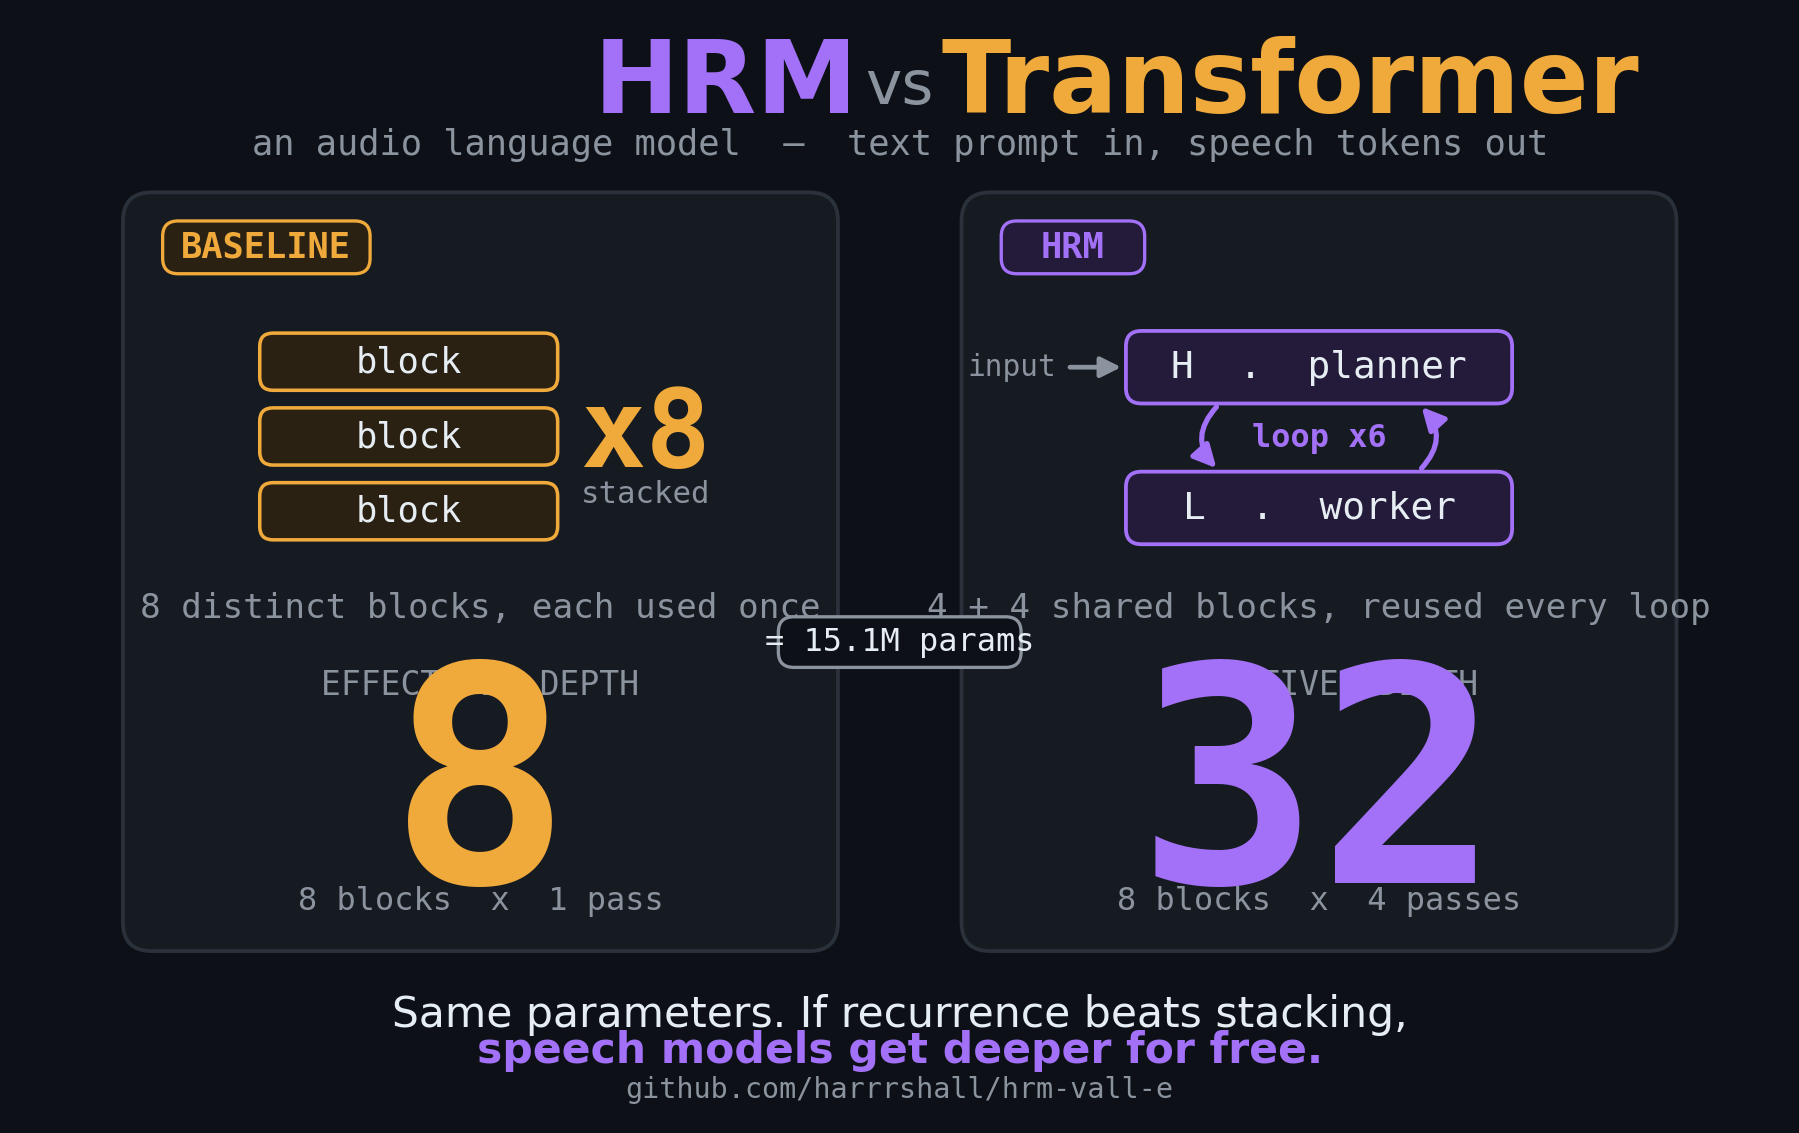
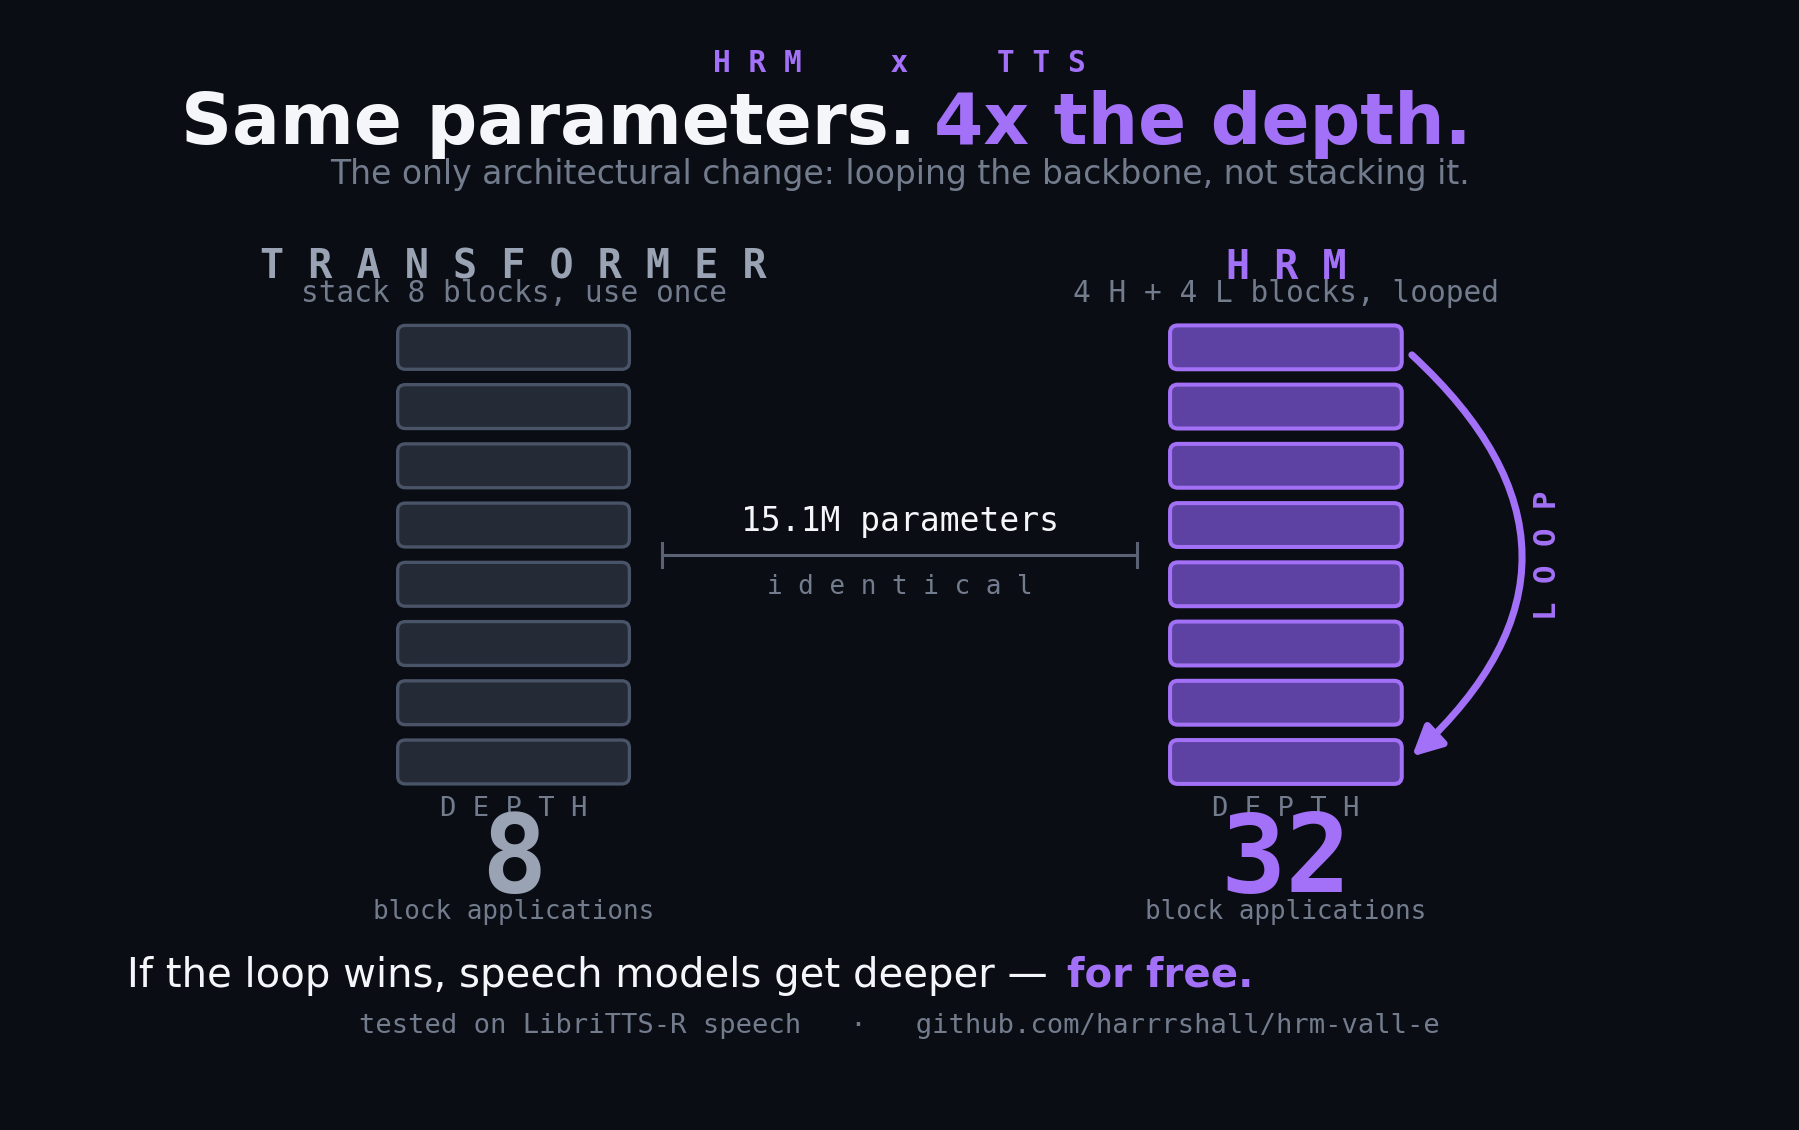
Redesign diagram: two-stack comparison, loop as the delta, dimension line, depth readout

Changed region(s): [[0.0623, 0.031, 0.965, 0.9912]]

diff --git a/scripts/generate_diagram.py b/scripts/generate_diagram.py
@@ -1,9 +1,11 @@
 """
 Render the HRM-vs-baseline architecture diagram to a PNG.
 
-Standalone matplotlib — no browser, no Excalidraw dependency. Dark,
-spacious, big focal numbers. Produces assets/architecture.png, the
-image to attach to the launch tweet.
+Standalone matplotlib — no browser, no Excalidraw dependency. The design
+is honest to the architecture: both backbones have exactly 8 transformer
+blocks; the ONLY change is that HRM loops them instead of stacking them.
+So the picture is two identical 8-block stacks — one plain, one with a
+recurrence loop — and the depth readout (8 vs 32) tells the rest.
 
     python scripts/generate_diagram.py
 """
@@ -17,118 +19,109 @@ from matplotlib.patches import FancyBboxPatch, FancyArrowPatch
 OUT = Path(__file__).resolve().parents[1] / "assets" / "architecture.png"
 OUT.parent.mkdir(parents=True, exist_ok=True)
 
-# ---- palette (dark "nerd" theme) ----
-BG        = "#0d1117"
-CARD      = "#161b22"
-EDGE      = "#2b313b"
-INK       = "#e6edf3"
-MUTED     = "#8b949e"
-AMBER     = "#f0a93b"   # baseline accent
-AMBER_DK  = "#2a2113"
-VIOLET    = "#a371f7"   # HRM accent
-VIOLET_DK = "#241b3a"
-GREEN     = "#3fb950"
-MONO      = "monospace"
+# ---- palette: dark, disciplined (grey = control, violet = subject) ----
+BG       = "#0a0d14"
+GREY_F   = "#242a36"
+GREY_E   = "#4a5468"
+GREY_T   = "#9aa3b3"
+VIO      = "#a371f7"
+VIO_F    = "#5e42a3"
+DIMLINE  = "#5a6273"
+WHITE    = "#f4f6fa"
+MUTED    = "#737c8d"
+MONO     = "monospace"
 
 
-def rbox(ax, x, y, w, h, *, fc, ec, lw=1.6, rs=18, z=2, alpha=1.0):
+def sp(s):
+    """letter-space a string for an engineered, technical look"""
+    return " ".join(s)
+
+
+def rrect(ax, x, y, w, h, *, fc, ec, lw, rs=7, z=2):
     ax.add_patch(FancyBboxPatch(
         (x, y), w, h, boxstyle=f"round,pad=0,rounding_size={rs}",
-        fc=fc, ec=ec, lw=lw, zorder=z, alpha=alpha))
+        fc=fc, ec=ec, lw=lw, zorder=z))
 
 
-def label(ax, x, y, text, *, fs, color=INK, ha="center", va="center",
-          weight="normal", mono=False):
-    ax.text(x, y, text, ha=ha, va=va, fontsize=fs, color=color,
-            weight=weight, family=(MONO if mono else "sans-serif"), zorder=6)
+def txt(ax, x, y, s, *, fs, color=WHITE, ha="center", va="center",
+        weight="normal", mono=False, rot=0, z=6):
+    ax.text(x, y, s, fontsize=fs, color=color, ha=ha, va=va, weight=weight,
+            family=(MONO if mono else "sans-serif"), rotation=rot, zorder=z)
+
+
+def stack(ax, cx, y0, *, fc, ec, lw):
+    """draw a vertical stack of 8 transformer blocks centered at cx"""
+    bw, bh, gap = 210, 40, 14
+    for i in range(8):
+        rrect(ax, cx - bw / 2, y0 + i * (bh + gap), bw, bh,
+              fc=fc, ec=ec, lw=lw)
+    return bw, y0, y0 + 8 * bh + 7 * gap   # width, bottom, top
 
 
 def main():
-    fig, ax = plt.subplots(figsize=(13.4, 8.4))
+    fig, ax = plt.subplots(figsize=(13.4, 8.38))
     fig.patch.set_facecolor(BG)
     ax.set_xlim(0, 1600)
     ax.set_ylim(0, 1000)
     ax.axis("off")
-    ax.add_patch(FancyBboxPatch((-200, -200), 2000, 1400, boxstyle="square,pad=0",
-                                fc=BG, ec="none", zorder=0))
+    ax.add_patch(FancyBboxPatch((-300, -300), 2200, 1600,
+                 boxstyle="square,pad=0", fc=BG, ec="none", zorder=0))
 
-    # ---- title (two-tone) ----
-    label(ax, 762, 938, "HRM", fs=43, color=VIOLET, weight="bold", ha="right")
-    label(ax, 800, 936, "vs", fs=26, color=MUTED, ha="center")
-    label(ax, 838, 938, "Transformer", fs=43, color=AMBER, weight="bold", ha="left")
-    label(ax, 800, 884,
-          "an audio language model  —  text prompt in, speech tokens out",
-          fs=15, color=MUTED, mono=True)
+    LX, RX, Y0 = 450, 1150, 300
 
-    # ================= LEFT CARD : BASELINE =================
-    lx, lw_ = 96, 648
-    lcx = lx + lw_ / 2
-    rbox(ax, lx, 150, lw_, 690, fc=CARD, ec=EDGE, lw=1.6, rs=26)
-    rbox(ax, lx + 36, 766, 188, 48, fc=AMBER_DK, ec=AMBER, lw=1.4, rs=14)
-    label(ax, lx + 36 + 94, 790, "BASELINE", fs=15, color=AMBER,
-          weight="bold", mono=True)
+    # ---- header ----
+    txt(ax, 800, 958, sp("HRM  x  TTS"), fs=12.5, color=VIO,
+        mono=True, weight="bold")
+    txt(ax, 815, 902, "Same parameters.", fs=30, color=WHITE,
+        weight="bold", ha="right")
+    txt(ax, 831, 902, "4x the depth.", fs=30, color=VIO,
+        weight="bold", ha="left")
+    txt(ax, 800, 856,
+        "The only architectural change: looping the backbone, not stacking it.",
+        fs=14, color=MUTED)
 
-    for yy in (660, 592, 524):
-        rbox(ax, lcx - 200, yy, 270, 52, fc=AMBER_DK, ec=AMBER, lw=1.5, rs=12)
-        label(ax, lcx - 65, yy + 26, "block", fs=15, color=INK, mono=True)
-    label(ax, lcx + 150, 618, "x8", fs=46, color=AMBER, weight="bold", mono=True)
-    label(ax, lcx + 150, 566, "stacked", fs=13, color=MUTED, mono=True)
+    # ---- column headers ----
+    txt(ax, LX, 772, sp("TRANSFORMER"), fs=17, color=GREY_T,
+        mono=True, weight="bold")
+    txt(ax, LX, 748, "stack 8 blocks, use once", fs=12.5,
+        color=MUTED, mono=True)
+    txt(ax, RX, 772, sp("HRM"), fs=17, color=VIO, mono=True, weight="bold")
+    txt(ax, RX, 748, "4 H + 4 L blocks, looped", fs=12.5,
+        color=MUTED, mono=True)
 
-    label(ax, lcx, 462, "8 distinct blocks, each used once",
-          fs=14.5, color=MUTED, mono=True)
-    ax.plot([lx + 60, lx + lw_ - 60], [430, 430], color=EDGE, lw=1.2, zorder=1)
-    label(ax, lcx, 392, "EFFECTIVE  DEPTH", fs=14, color=MUTED, mono=True)
-    label(ax, lcx, 288, "8", fs=128, color=AMBER, weight="bold", mono=True)
-    label(ax, lcx, 196, "8 blocks  x  1 pass", fs=13.5, color=MUTED, mono=True)
+    # ---- the two stacks (identical blocks; the loop is the difference) ----
+    bw, ybot, ytop = stack(ax, LX, Y0, fc=GREY_F, ec=GREY_E, lw=1.4)
+    stack(ax, RX, Y0, fc=VIO_F, ec=VIO, lw=1.7)
 
-    # ================= RIGHT CARD : HRM =================
-    rx, rw_ = 856, 648
-    rcx = rx + rw_ / 2
-    rbox(ax, rx, 150, rw_, 690, fc=CARD, ec=EDGE, lw=1.6, rs=26)
-    rbox(ax, rx + 36, 766, 130, 48, fc=VIOLET_DK, ec=VIOLET, lw=1.4, rs=14)
-    label(ax, rx + 36 + 65, 790, "HRM", fs=15, color=VIOLET,
-          weight="bold", mono=True)
+    # recurrence loop on the HRM stack — output feeds back to input
+    redge = RX + bw / 2
+    ax.add_patch(FancyArrowPatch((redge + 6, ytop - 24), (redge + 6, ybot + 22),
+                 connectionstyle="arc3,rad=-0.55", arrowstyle="-|>",
+                 mutation_scale=26, color=VIO, lw=3.0, zorder=5))
+    txt(ax, redge + 132, (ybot + ytop) / 2, sp("LOOP"), fs=13, color=VIO,
+        mono=True, weight="bold", rot=90)
 
-    rbox(ax, rcx - 175, 648, 350, 66, fc=VIOLET_DK, ec=VIOLET, lw=1.6, rs=14)
-    label(ax, rcx, 681, "H  .  planner", fs=16, color=INK, mono=True)
-    rbox(ax, rcx - 175, 520, 350, 66, fc=VIOLET_DK, ec=VIOLET, lw=1.6, rs=14)
-    label(ax, rcx, 553, "L  .  worker", fs=16, color=INK, mono=True)
+    # ---- "same params" dimension line between the stacks ----
+    x1, x2, ym = LX + bw / 2 + 30, RX - bw / 2 - 30, (ybot + ytop) / 2
+    ax.plot([x1, x2], [ym, ym], color=DIMLINE, lw=1.3, zorder=3)
+    for xx in (x1, x2):
+        ax.plot([xx, xx], [ym - 11, ym + 11], color=DIMLINE, lw=1.3, zorder=3)
+    txt(ax, 800, ym + 31, "15.1M parameters", fs=14, color=WHITE, mono=True)
+    txt(ax, 800, ym - 29, sp("identical"), fs=11, color=MUTED, mono=True)
 
-    # recurrence loop (two curved arrows)
-    ax.add_patch(FancyArrowPatch((rcx - 90, 648), (rcx - 90, 586),
-                                 connectionstyle="arc3,rad=0.5",
-                                 arrowstyle="-|>", mutation_scale=20,
-                                 color=VIOLET, lw=2.2, zorder=4))
-    ax.add_patch(FancyArrowPatch((rcx + 90, 586), (rcx + 90, 648),
-                                 connectionstyle="arc3,rad=0.5",
-                                 arrowstyle="-|>", mutation_scale=20,
-                                 color=VIOLET, lw=2.2, zorder=4))
-    label(ax, rcx, 617, "loop x6", fs=13.5, color=VIOLET, weight="bold", mono=True)
-    ax.add_patch(FancyArrowPatch((rcx - 230, 681), (rcx - 175, 681),
-                                 arrowstyle="-|>", mutation_scale=18,
-                                 color=MUTED, lw=2.0, zorder=4))
-    label(ax, rcx - 238, 681, "input", fs=12.5, color=MUTED, ha="right", mono=True)
+    # ---- depth readouts ----
+    for cx, num, col in [(LX, "8", GREY_T), (RX, "32", VIO)]:
+        txt(ax, cx, 278, sp("DEPTH"), fs=11.5, color=MUTED, mono=True)
+        txt(ax, cx, 230, num, fs=46, color=col, mono=True, weight="bold")
+        txt(ax, cx, 184, "block applications", fs=11, color=MUTED, mono=True)
 
-    label(ax, rcx, 462, "4 + 4 shared blocks, reused every loop",
-          fs=14.5, color=MUTED, mono=True)
-    ax.plot([rx + 60, rx + rw_ - 60], [430, 430], color=EDGE, lw=1.2, zorder=1)
-    label(ax, rcx, 392, "EFFECTIVE  DEPTH", fs=14, color=MUTED, mono=True)
-    label(ax, rcx, 288, "32", fs=128, color=VIOLET, weight="bold", mono=True)
-    label(ax, rcx, 196, "8 blocks  x  4 passes", fs=13.5, color=MUTED, mono=True)
-
-    # ---- bridge: same params ----
-    rbox(ax, 690, 408, 220, 46, fc=BG, ec=MUTED, lw=1.4, rs=14, z=5)
-    label(ax, 800, 431, "= 15.1M params", fs=13.5, color=INK, mono=True)
-
-    # ---- thesis ----
-    label(ax, 800, 92,
-          "Same parameters. If recurrence beats stacking,",
-          fs=18, color=INK)
-    label(ax, 800, 60,
-          "speech models get deeper for free.",
-          fs=18, color=VIOLET, weight="bold")
-    label(ax, 800, 24, "github.com/harrrshall/hrm-vall-e",
-          fs=12, color=MUTED, mono=True)
+    # ---- footer ----
+    txt(ax, 946, 126, "If the loop wins, speech models get deeper — ",
+        fs=17, color=WHITE, ha="right")
+    txt(ax, 952, 126, "for free.", fs=17, color=VIO, weight="bold", ha="left")
+    txt(ax, 800, 80,
+        "tested on LibriTTS-R speech   ·   github.com/harrrshall/hrm-vall-e",
+        fs=11.5, color=MUTED, mono=True)
 
     fig.savefig(OUT, dpi=170, bbox_inches="tight", facecolor=BG)
     print(f"wrote {OUT}")